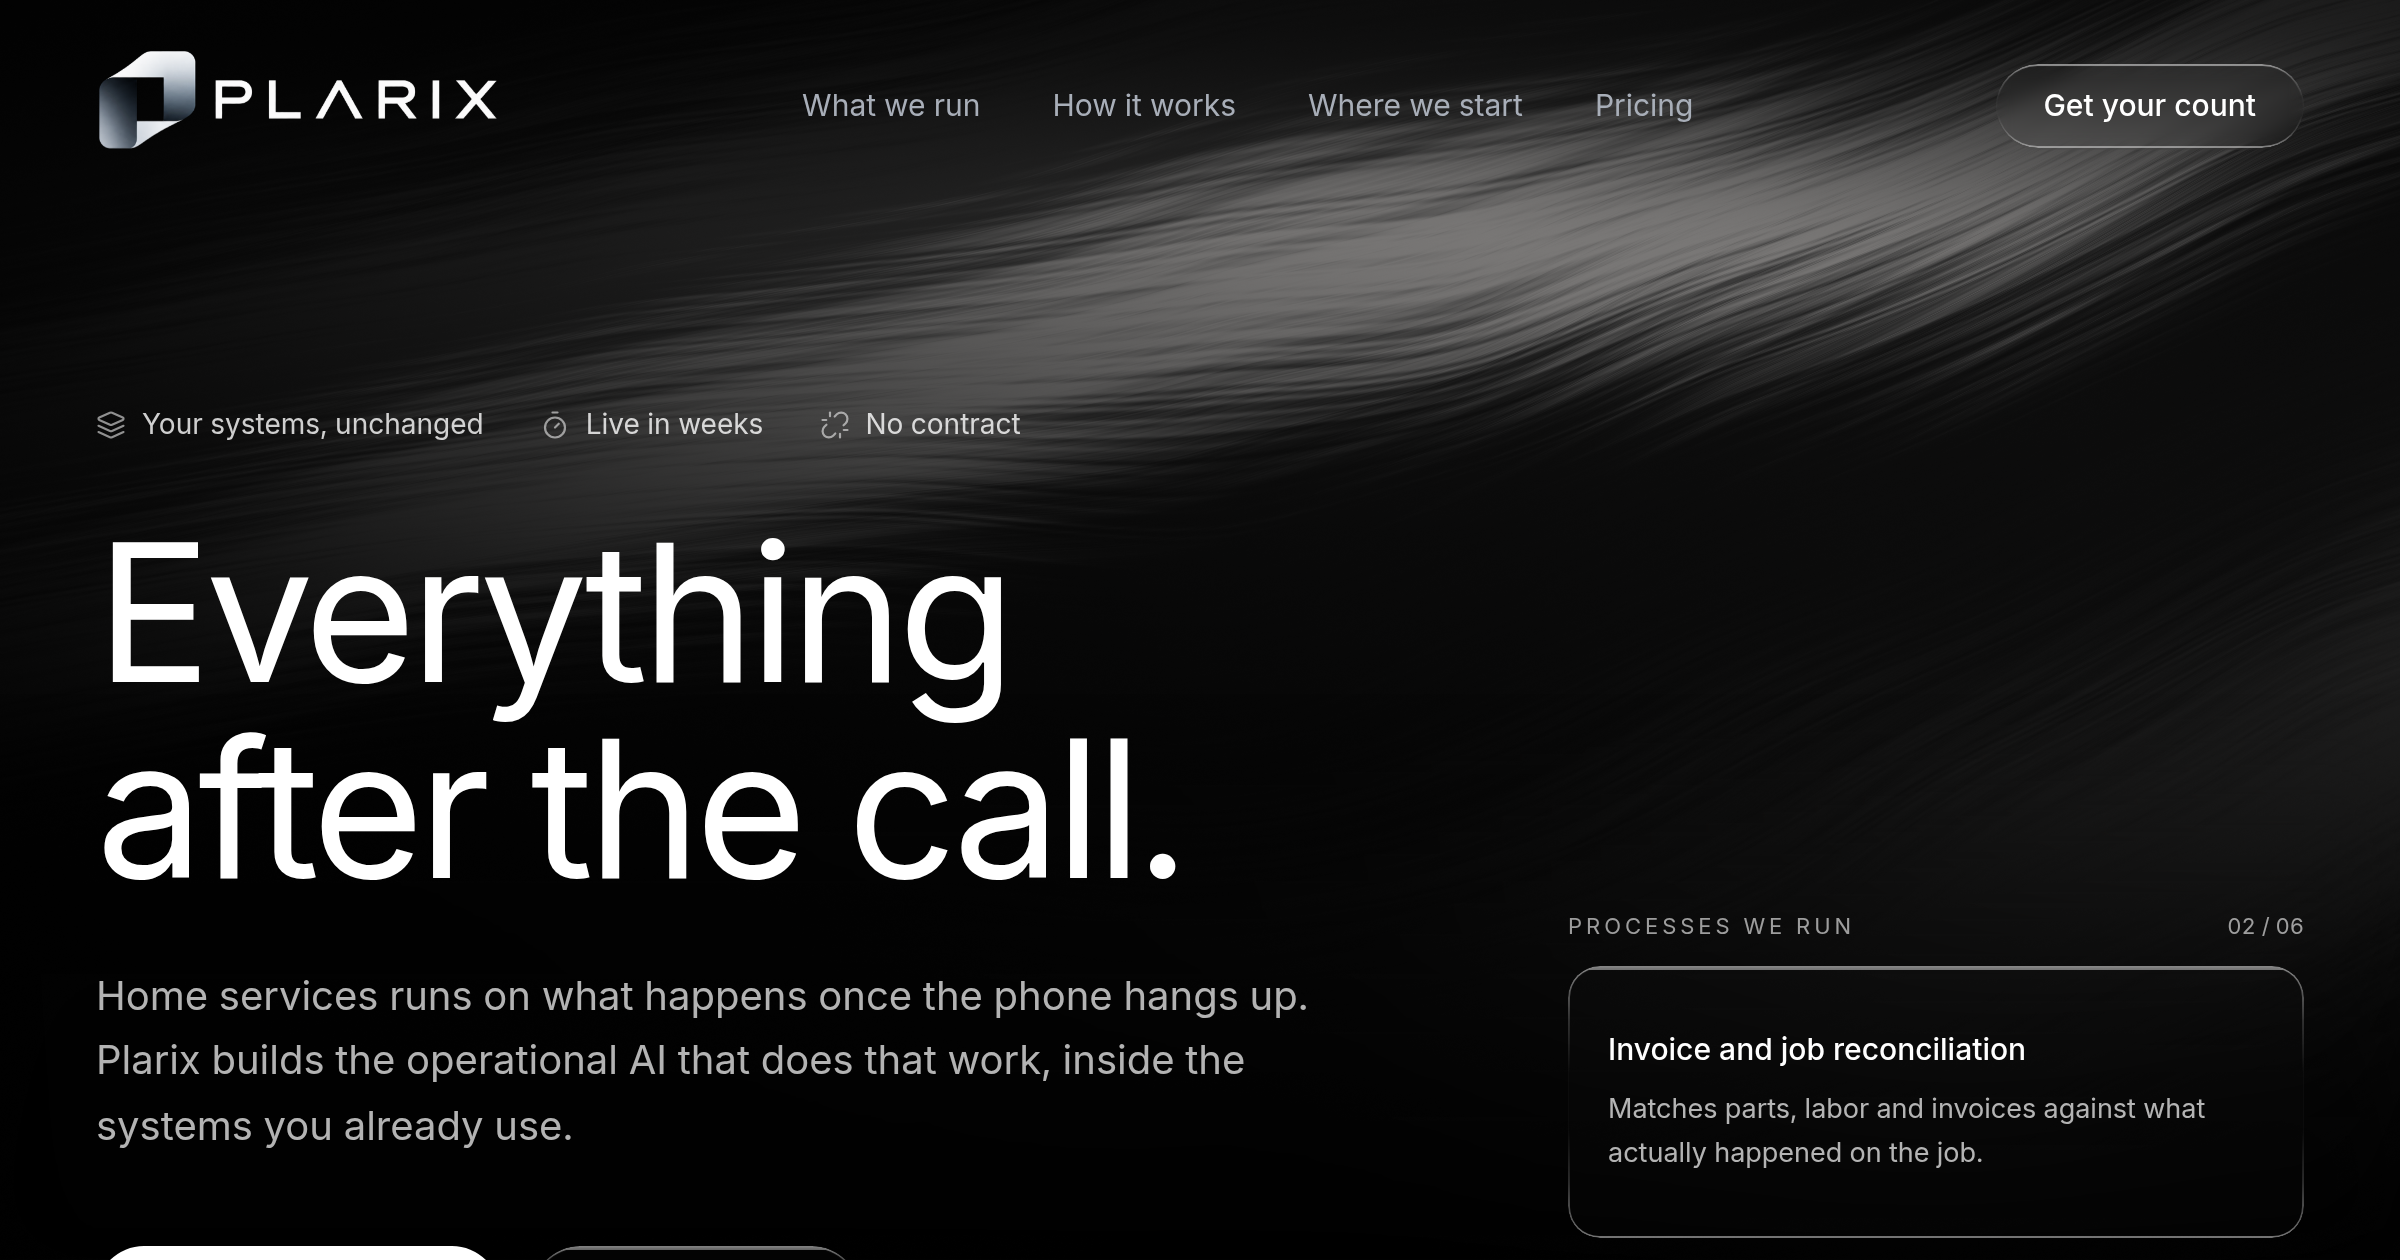
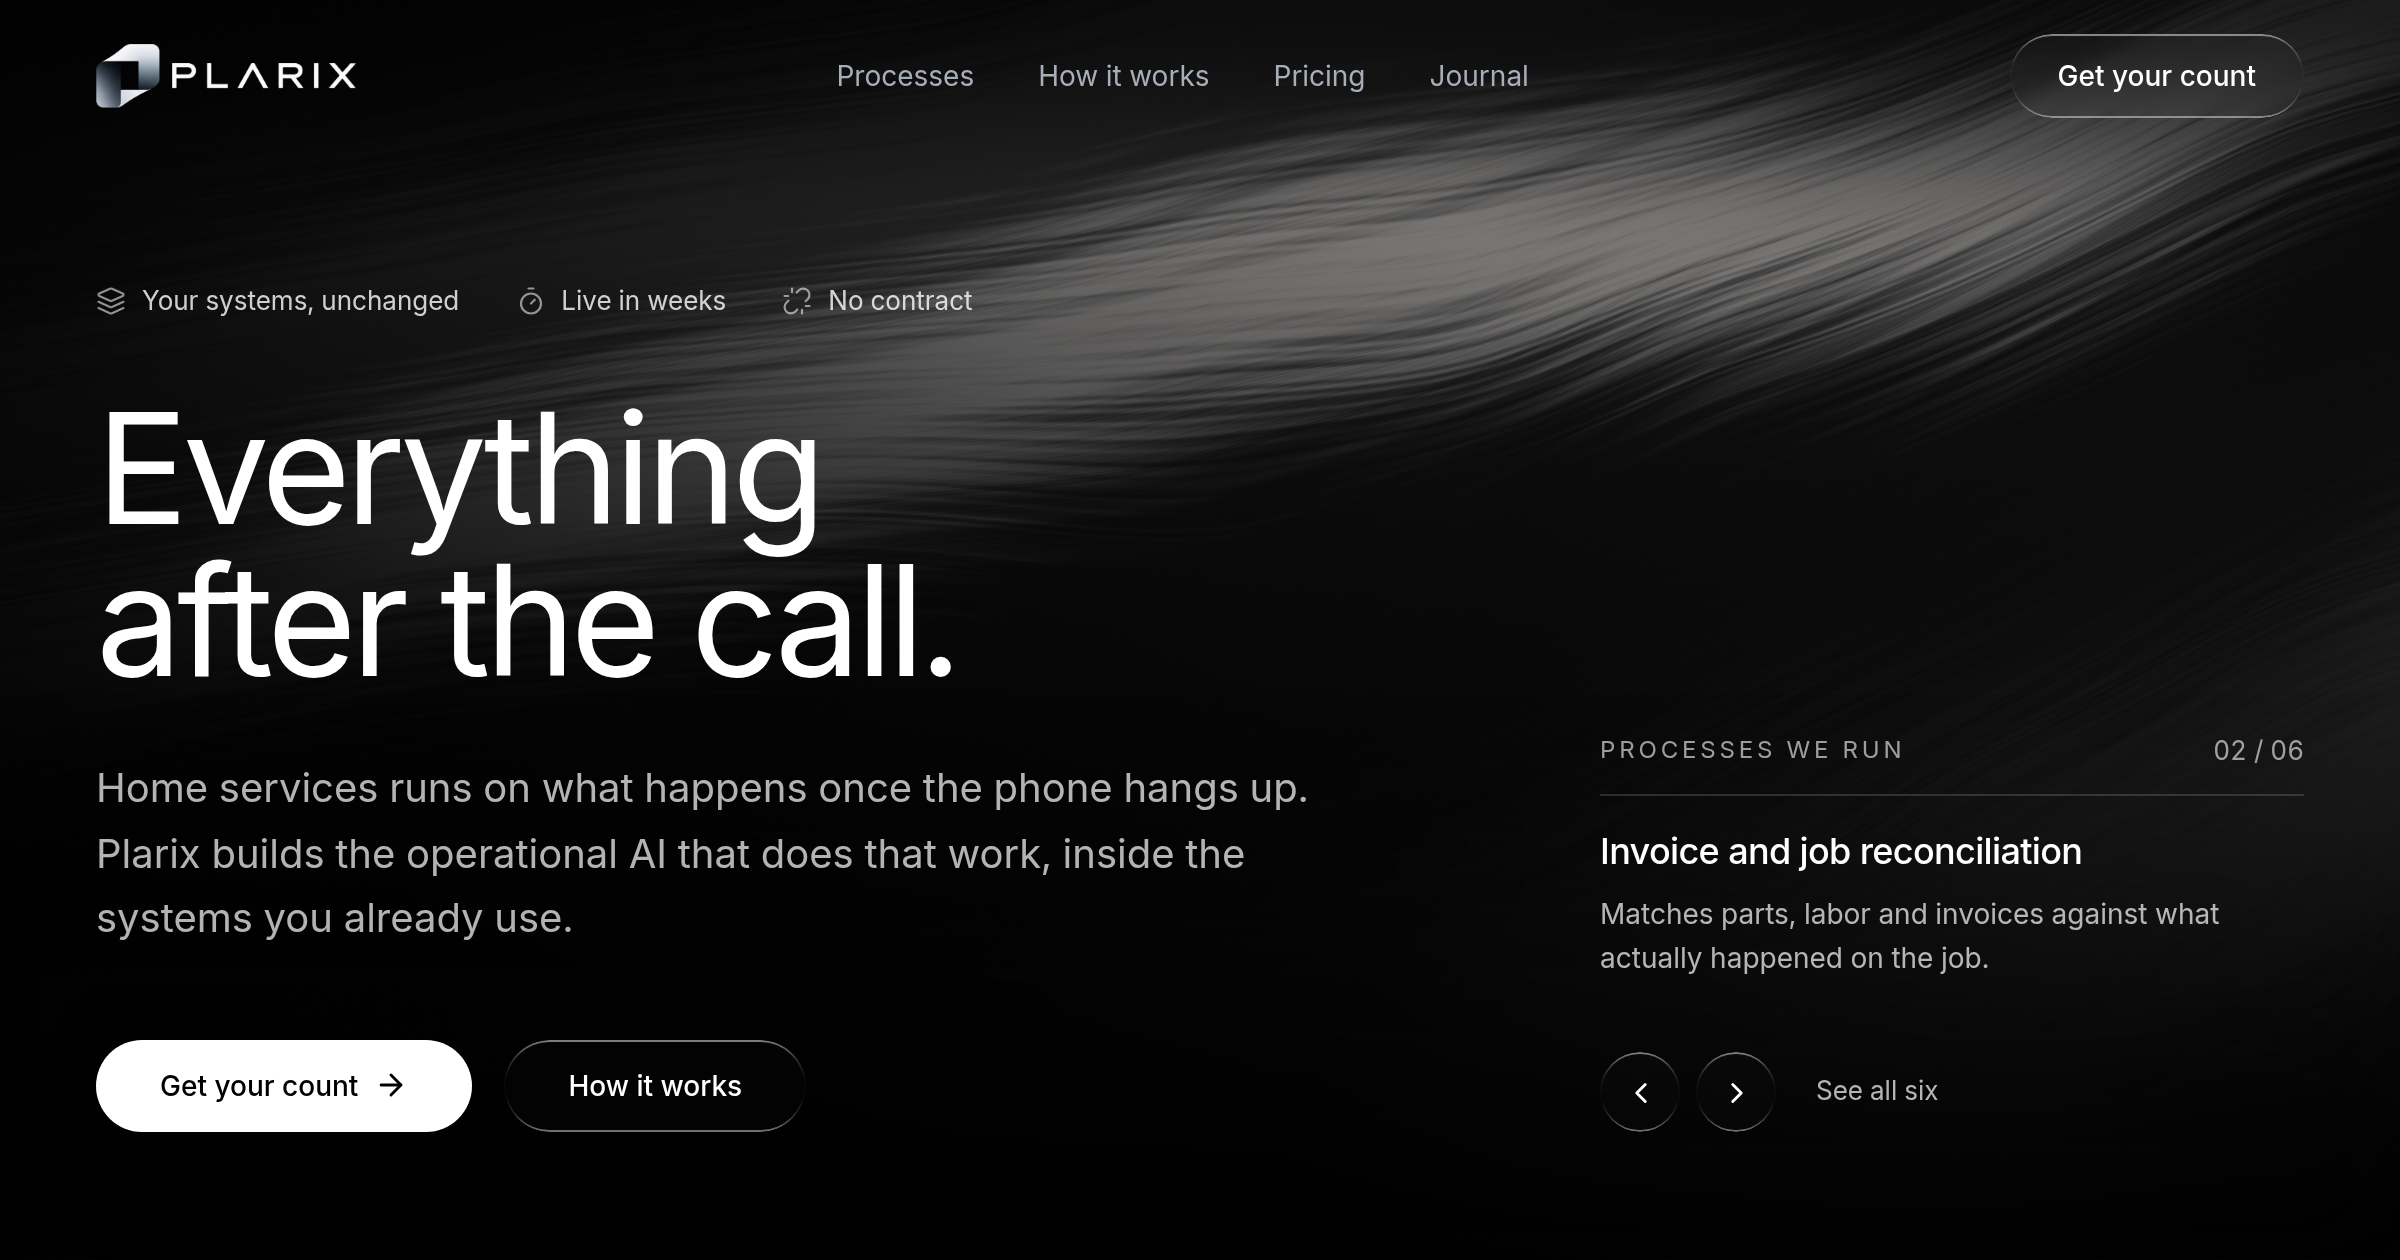
Deduplicate FAQ schema, cross-link the process pages, fix user-facing error copy
Three real defects found by auditing the shipped build rather than by
looking at it.

FAQPage structured data resolved on three routes. The same question set
repeated across home, pricing and /faq is duplicate structured data, not
three chances to be cited. It now lives on /faq alone; the home page shows
six questions and links to the rest, and pricing keeps its two visible
answers without re-declaring the schema.

Process pages linked only to the next one. Each now carries a rail to the
other five, which is the internal linking a set of six sibling pages
should have had from the start.

The lead endpoint answered a failed submission with a sentence about our
own infrastructure, shown to a contractor. It now says we could not record
it and names the email address that will.

Also re-rendered the social card, which was still showing the pre-80% type
scale and the old rotator.

Audited on the shipped build: axe-core against WCAG 2.0 and 2.1 A and AA
across twelve route shapes returns zero violations; layout is clean at six
widths; cumulative layout shift is 0.000 on home, pricing and a journal
post.

Claude-Session: https://claude.ai/code/session_01R5mw6JKweGqMvJqzb7z5ey

diff --git a/components/site/faq.tsx b/components/site/faq.tsx
@@ -1,10 +1,20 @@
+import Link from "next/link";
+import { ArrowRight } from "lucide-react";
+
 import { Reveal } from "./reveal";
 import { faqs } from "@/content/site";
 
-export function Faq() {
+/**
+ * A selection on the home page, the full set at /faq. The schema lives on /faq only:
+ * the same FAQPage repeated on three routes is duplicate structured data.
+ */
+export function Faq({ limit = 6 }: { limit?: number }) {
+  const shown = faqs.slice(0, limit);
+  const remaining = faqs.length - shown.length;
+
   return (
     <section id="faq" className="scroll-mt-24 border-t border-hairline">
-      <div className="shell py-28 md:py-40">
+      <div className="shell py-24 md:py-36">
         <div className="grid gap-12 lg:grid-cols-[0.75fr_1.25fr] lg:gap-24">
           <Reveal>
             <h2 className="t-h2 lg:sticky lg:top-28">
@@ -15,20 +25,33 @@ export function Faq() {
           </Reveal>
 
           <Reveal delay={100}>
-            {faqs.map((item, i) => (
+            {shown.map((item, i) => (
               <details key={item.q} className="group border-b border-hairline" open={i === 0}>
-                <summary className="flex items-start justify-between gap-6 py-6 text-lg text-white marker:hidden [&::-webkit-details-marker]:hidden md:text-xl">
+                <summary className="flex items-start justify-between gap-6 py-6 t-h4 text-white marker:hidden [&::-webkit-details-marker]:hidden">
                   <span>{item.q}</span>
-                  <span className="relative mt-2.5 h-[13px] w-[13px] shrink-0" aria-hidden="true">
+                  <span className="relative mt-2 h-[13px] w-[13px] shrink-0" aria-hidden="true">
                     <span className="absolute left-0 top-1/2 h-px w-full -translate-y-1/2 bg-white/50" />
                     <span className="absolute left-1/2 top-0 h-full w-px -translate-x-1/2 bg-white/50 transition-transform duration-200 ease-out group-open:rotate-90 group-open:opacity-0" />
                   </span>
                 </summary>
-                <p className="max-w-[66ch] pb-7 pr-8 t-body text-text-secondary">
-                  {item.a}
-                </p>
+                <p className="max-w-[66ch] pb-7 pr-8 t-body text-text-secondary">{item.a}</p>
               </details>
             ))}
+
+            {remaining > 0 ? (
+              <Link
+                href="/faq"
+                className="group mt-8 inline-flex items-center gap-2.5 t-body text-text-secondary transition-colors duration-200 hover:text-white"
+              >
+                <span className="link-sweep">{remaining} more questions</span>
+                <ArrowRight
+                  size={17}
+                  strokeWidth={1.75}
+                  aria-hidden="true"
+                  className="transition-transform duration-200 ease-out group-hover:translate-x-1"
+                />
+              </Link>
+            ) : null}
           </Reveal>
         </div>
       </div>

diff --git a/app/processes/[slug]/page.tsx b/app/processes/[slug]/page.tsx
@@ -31,8 +31,7 @@ export default async function ProcessPage({ params }: { params: Promise<{ slug: 
   const process = processes.find((p) => p.slug === slug);
   if (!process) notFound();
 
-  const index = processes.findIndex((p) => p.slug === slug);
-  const next = processes[(index + 1) % processes.length];
+  const others = processes.filter((p) => p.slug !== slug);
 
   const crumbs = [
     { label: "Plarix", href: "/" },
@@ -103,21 +102,30 @@ export default async function ProcessPage({ params }: { params: Promise<{ slug: 
             </div>
           </Reveal>
 
-          <Reveal delay={260} className="mt-14">
-            <Link
-              href={`/processes/${next.slug}`}
-              className="group inline-flex items-center gap-3 text-base text-text-secondary transition-colors duration-200 hover:text-white md:text-lg"
-            >
-              <span className="text-text-tertiary">Next</span>
-              <span className="link-sweep">{next.name}</span>
-              <ArrowRight
-                size={18}
-                strokeWidth={1.75}
-                aria-hidden="true"
-                className="transition-transform duration-200 ease-out group-hover:translate-x-1"
-              />
-            </Link>
+          <Reveal delay={260} className="mt-16 border-t border-hairline pt-12 md:mt-24">
+            <h2 className="t-label mb-8 text-text-tertiary">The other five</h2>
+            <ul className="grid gap-x-12 gap-y-1 md:grid-cols-2">
+              {others.map((o) => (
+                <li key={o.slug}>
+                  <Link
+                    href={`/processes/${o.slug}`}
+                    className="group flex items-baseline justify-between gap-6 border-b border-hairline py-5"
+                  >
+                    <span className="t-h4 text-text-secondary transition-colors duration-200 group-hover:text-white">
+                      {o.name}
+                    </span>
+                    <ArrowRight
+                      size={17}
+                      strokeWidth={1.75}
+                      aria-hidden="true"
+                      className="shrink-0 translate-y-0.5 text-text-tertiary transition-all duration-200 ease-out group-hover:translate-x-1 group-hover:text-white"
+                    />
+                  </Link>
+                </li>
+              ))}
+            </ul>
           </Reveal>
+
         </section>
 
         <Closing />

diff --git a/app/pricing/page.tsx b/app/pricing/page.tsx
@@ -3,7 +3,10 @@ import { PageHeader } from "@/components/site/page-header";
 import { Reveal } from "@/components/site/reveal";
 import { Comparison } from "@/components/site/comparison";
 import { Closing } from "@/components/site/closing";
-import { JsonLd, breadcrumbLd, faqLd, pageMeta } from "@/lib/seo";
+import Link from "next/link";
+import { ArrowRight } from "lucide-react";
+
+import { JsonLd, breadcrumbLd, pageMeta } from "@/lib/seo";
 import { faqs, pricing } from "@/content/site";
 
 export const metadata = pageMeta({
@@ -25,7 +28,7 @@ const priceFaqs = faqs.filter((f) =>
 export default function PricingPage() {
   return (
     <PageFrame>
-      <JsonLd data={[breadcrumbLd(crumbs), faqLd(priceFaqs)]} />
+      <JsonLd data={breadcrumbLd(crumbs)} />
 
       <div id="main">
         <PageHeader
@@ -91,6 +94,21 @@ export default function PricingPage() {
                 </p>
               </Reveal>
             ))}
+
+            <Reveal delay={120} className="pt-9">
+              <Link
+                href="/faq"
+                className="group inline-flex items-center gap-2.5 t-body text-text-secondary transition-colors duration-200 hover:text-white"
+              >
+                <span className="link-sweep">Every other question we get</span>
+                <ArrowRight
+                  size={17}
+                  strokeWidth={1.75}
+                  aria-hidden="true"
+                  className="transition-transform duration-200 ease-out group-hover:translate-x-1"
+                />
+              </Link>
+            </Reveal>
           </div>
         </section>
 

diff --git a/app/api/leads/route.ts b/app/api/leads/route.ts
@@ -30,7 +30,7 @@ export async function POST(request: NextRequest) {
     const supabase = getSupabaseClientOrNull();
     if (!supabase) {
       return NextResponse.json(
-        { error: "Service unavailable. Missing server configuration." },
+        { error: "We could not record that just now." },
         { status: 503 }
       );
     }
@@ -78,11 +78,11 @@ export async function POST(request: NextRequest) {
 
     if (error) {
       console.error("Supabase insert error:", error.message);
-      return NextResponse.json({ error: "Failed to save lead." }, { status: 500 });
+      return NextResponse.json({ error: "We could not record that just now." }, { status: 500 });
     }
 
     return NextResponse.json({ success: true }, { status: 200 });
   } catch {
-    return NextResponse.json({ error: "Something went wrong." }, { status: 500 });
+    return NextResponse.json({ error: "Something went wrong on our end." }, { status: 500 });
   }
 }

diff --git a/app/page.tsx b/app/page.tsx
@@ -9,8 +9,8 @@ import { Pricing } from "@/components/site/pricing";
 import { Faq } from "@/components/site/faq";
 import { Closing } from "@/components/site/closing";
 import { ColumnRules } from "@/components/site/column-rules";
-import { JsonLd, faqLd, itemListLd } from "@/lib/seo";
-import { faqs, processes } from "@/content/site";
+import { JsonLd, itemListLd } from "@/lib/seo";
+import { processes } from "@/content/site";
 
 export const metadata = {
   alternates: { canonical: "/" },
@@ -21,7 +21,6 @@ export default function Home() {
     <>
       <JsonLd
         data={[
-          faqLd(faqs.slice(0, 8)),
           itemListLd(
             "Processes Plarix runs for home services companies",
             processes.map((p) => ({

diff --git a/components/site/count-form.tsx b/components/site/count-form.tsx
@@ -44,8 +44,8 @@ export function CountForm() {
       setStatus("error");
       setMessage(
         err instanceof Error
-          ? `${err.message} You can also reach us at ${CONTACT_EMAIL}.`
-          : `Something went wrong. Email us at ${CONTACT_EMAIL}.`,
+          ? `${err.message} Email ${CONTACT_EMAIL} and we will pick it up from there.`
+          : `Something went wrong on our end. Email ${CONTACT_EMAIL} and we will pick it up from there.`,
       );
     }
   }

diff --git a/DESIGN.md b/DESIGN.md
@@ -182,3 +182,27 @@ assistant crawlers and allows them.
 Verified at 320, 390, 768, 1024, 1440 and 1920 across all eleven route shapes: no
 horizontal overflow anywhere, no console errors, nothing below the legible type floor,
 and the mechanical detector clean.
+
+
+## Audit results
+
+Measured rather than asserted, on the shipped build:
+
+- **Accessibility.** axe-core against WCAG 2.0 and 2.1 A and AA, all twelve route shapes:
+  zero violations. Tab order from a cold load runs skip link, logo, the four nav items,
+  then the primary action, which is the order the page is written in.
+- **Layout.** 320, 390, 768, 1024, 1440 and 1920 across every route: no horizontal
+  overflow, exactly one h1 per page, no console errors, and nothing below the type floor.
+- **Stability.** Cumulative layout shift 0.000 on the home page, pricing and a journal
+  post. First contentful paint 60 to 232ms locally. The shader carries no layout cost
+  because it is a fixed full-viewport canvas that never participates in flow.
+- **Structured data.** FAQPage resolves on exactly one route. Repeating the same
+  question set across three pages, which the first multi-page pass did, is duplicate
+  structured data rather than three chances to be cited.
+
+## Copy that reaches a user
+
+Error text is written for the person reading it, not the person who wrote it. The lead
+endpoint used to answer a failed submission with "Missing server configuration", which is
+a sentence about our infrastructure shown to a contractor. It now says we could not
+record it and names the email address that will.
